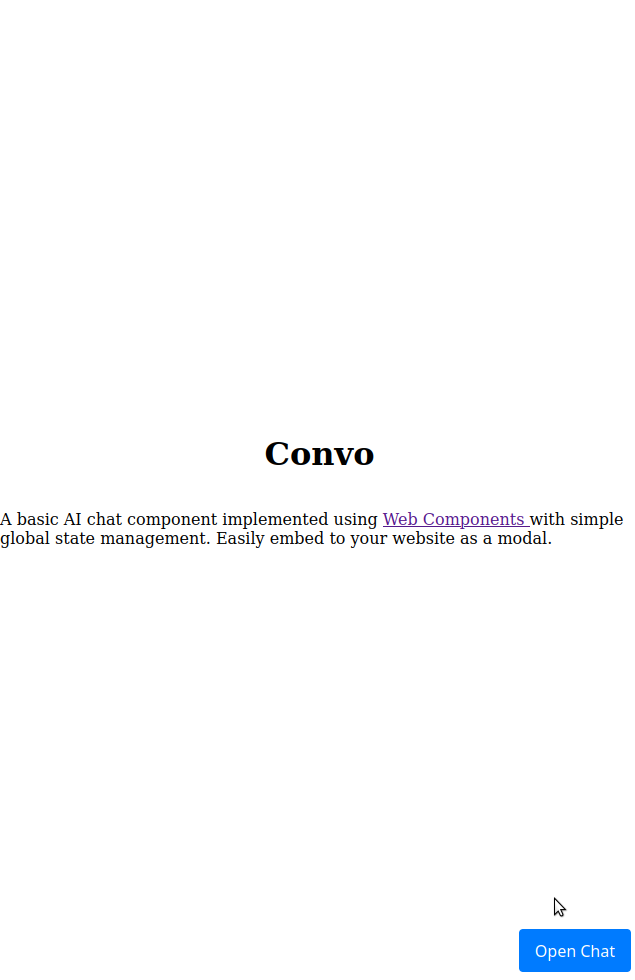
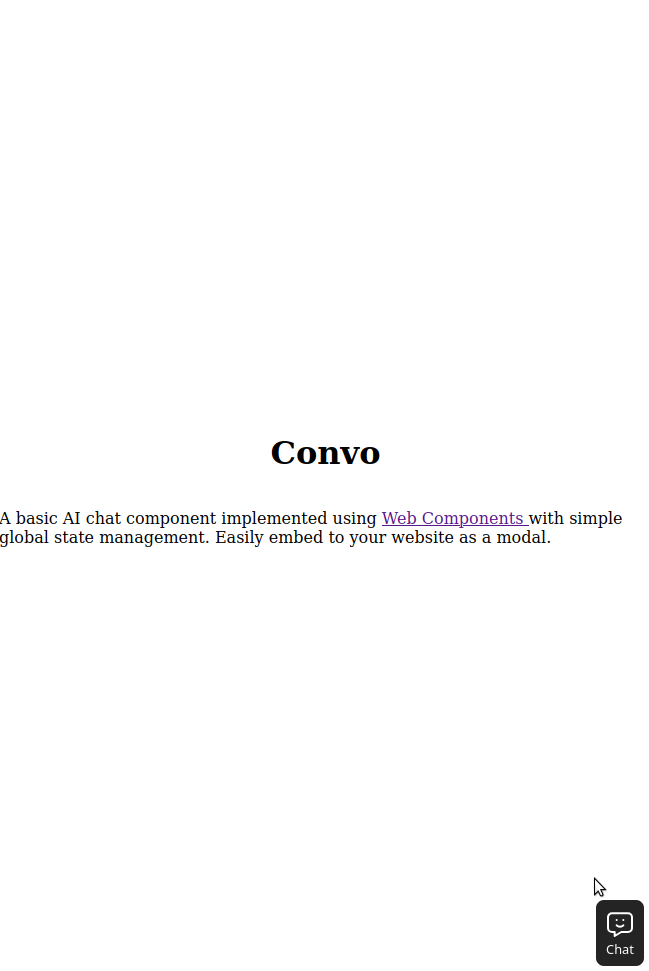
improve UI design

Changed region(s): [[0.0, 0.5252, 0.9874, 0.587], [0.8079, 0.896, 1.0, 1.0], [0.4189, 0.4325, 0.5984, 0.4943]]

diff --git a/js/chat-box.js b/js/chat-box.js
@@ -1,6 +1,62 @@
 import { store } from "./store.js";
 
+const sendIcon = `
+<svg
+  xmlns="http://www.w3.org/2000/svg"
+  width="24"
+  height="24"
+  viewBox="0 0 24 24"
+  fill="none"
+  stroke="#fff"
+  stroke-width="1.5"
+  stroke-linecap="round"
+  stroke-linejoin="round"
+>
+  <path d="M10 14l11 -11" />
+  <path d="M21 3l-6.5 18a.55 .55 0 0 1 -1 0l-3.5 -7l-7 -3.5a.55 .55 0 0 1 0 -1l18 -6.5" />
+</svg>
+`;
+
+const waitIcon = `
+<svg
+  xmlns="http://www.w3.org/2000/svg"
+  width="24"
+  height="24"
+  viewBox="0 0 24 24"
+  fill="none"
+  stroke="#fff"
+  stroke-width="1.5"
+  stroke-linecap="round"
+  stroke-linejoin="round"
+>
+  <path d="M12 6l0 -3" />
+  <path d="M16.25 7.75l2.15 -2.15" />
+  <path d="M18 12l3 0" />
+  <path d="M16.25 16.25l2.15 2.15" />
+  <path d="M12 18l0 3" />
+  <path d="M7.75 16.25l-2.15 2.15" />
+  <path d="M6 12l-3 0" />
+  <path d="M7.75 7.75l-2.15 -2.15" />
+</svg>
+`;
+
+const closeIcon = `
+<svg 
+  data-slot="icon" 
+  aria-hidden="true" 
+  fill="none" 
+  stroke-width="1.5" 
+  stroke="#242424" 
+  viewBox="0 0 24 24" 
+  xmlns="http://www.w3.org/2000/svg" 
+  width="30" 
+  height="30">
+    <path d="m9.75 9.75 4.5 4.5m0-4.5-4.5 4.5M21 12a9 9 0 1 1-18 0 9 9 0 0 1 18 0Z" stroke-linecap="round" stroke-linejoin="round"></path>
+</svg>
+`;
+
 const template = document.createElement("template");
+
 template.innerHTML = `
   <style>
     /* Scoped styles for the component */
@@ -8,15 +64,23 @@ template.innerHTML = `
       /* ----- DARK THEME PALETTE ----- */
       /* Define colors as CSS Custom Properties for easy theming */
       --background-color: #1a1a1a;        /* Very dark gray, almost black */
-      --component-background-color: #242424; /* Dark gray for the component itself */
+      --component-background-color:rgba(36, 36, 36, 0.65); /* Dark gray for the component itself */
       --text-color: #e1e1e1;            /* Light gray for primary text */
       --border-color: #444;             /* Mid-gray for borders */
-      --accent-color: #007bff;            /* Keep the blue for a nice pop of color */
+      --accent-color: #007bff;            
       --accent-color-hover: #0056b3;      /* A darker blue for hover */
       --user-message-background: var(--accent-color);
       --assistant-message-background: #3a3a3a; /* Darker gray for assistant messages */
       --button-disabled-background: #555;
       --button-disabled-text: #999;
+      --shadow-color: 0deg 0% 0%;
+      --shadow-elevation-high:
+    0.4px 0.5px 0.7px hsl(var(--shadow-color) / 0.13),
+    3.1px 3.8px 5.5px -0.5px hsl(var(--shadow-color) / 0.13),
+    6.6px 7.9px 11.6px -1px hsl(var(--shadow-color) / 0.13),
+    12.6px 15.3px 22.3px -1.5px hsl(var(--shadow-color) / 0.13),
+    23.3px 28.1px 41.1px -2px hsl(var(--shadow-color) / 0.13),
+    40.4px 48.8px 71.3px -2.5px hsl(var(--shadow-color) / 0.13);
 
       /* ----- COMPONENT STYLES ----- */
       display: flex;
@@ -42,24 +106,26 @@ template.innerHTML = `
       flex-direction: column;
       width: 300px;
       padding: 10px;
-      border-radius: 8px;
-      border: 1px solid var(--border-color);
+      border-radius: 12px;
       background-color: var(--component-background-color);
       color: var(--text-color);
+      box-shadow: var(--shadow-elevation-high);
     }
 
     #chat-header {
       display: flex;
-      font-size: 1.2rem;
       justify-content: space-between;
       align-items: center;
-      margin-bottom: 12px;
+      font-size: 1.2rem;
       width: 100%;
+      height: 100%;
     }
 
     #chat-header > p {
-      margin:0;
-      padding:0;
+      margin: 0;
+      padding: 2px 8px;
+      background-color: var(--background-color);
+      border-radius: 10px;
     }
 
     #chat-header > button {
@@ -69,13 +135,14 @@ template.innerHTML = `
       display: flex;
       justify-content: center;
       align-items: center;
-      background-color: var(--component-background-color);
-      border: solid #222 1px;
+      background-color:rgba(0, 0, 0, 0);
+      border: none;
       cursor: pointer;
-    }
-
-    #chat-header > button:hover {
-      opacity: 0.5
+      transition: background-color 0.2s;
+      }
+      
+      #chat-header > button:hover {
+        background-color: #fff;
     }
 
     .chat-messages {
@@ -85,8 +152,8 @@ template.innerHTML = `
       max-height: 50vh;
       width: 100%;
       border: 1px solid var(--border-color);
-      border-radius: 4px;
-      margin-bottom: 16px;
+      border-radius: 10px;
+      margin: 10px 0 10px 0;
       overflow-y: auto;
       background-color: var(--background-color);
       gap: 8px;
@@ -94,7 +161,7 @@ template.innerHTML = `
     
     .message {
         padding: 6px 10px;
-        border-radius: 12px;
+        border-radius: 8px;
         max-width: 80%;
         margin: 6px;
     }
@@ -113,6 +180,7 @@ template.innerHTML = `
 
     #chat-form {
       display: flex;
+      align-items: center;
       gap: 8px;
       width: 100%;
     }
@@ -120,12 +188,12 @@ template.innerHTML = `
     #message-input {
       flex-grow: 1;
       border: 1px solid var(--border-color);
-      border-radius: 4px;
       padding: 8px;
       font-size: 1em;
       background-color: var(--background-color);
       color: var(--text-color);
       width: 100%;
+      border-radius: 10px 0 0 10px;
     }
 
     #message-input::placeholder {
@@ -133,13 +201,16 @@ template.innerHTML = `
     }
 
     #send-button {
+      display: flex;
+      justify-content: center;
+      align-items: center;
       border: none;
       background-color: var(--accent-color);
       color: white;
-      border-radius: 4px;
-      padding: 8px 12px;
+      border-radius: 0 10px 10px 0;
       cursor: pointer;
       transition: background-color 0.2s;
+      padding: 8px;
     }
 
     #send-button:hover {
@@ -155,17 +226,17 @@ template.innerHTML = `
 
   <div id="convo-container">
     <div id="chat-header">
-      <p>Convo</p>
+      <p>convo</p>
       <button type="button" id="chat-header-btn">
-        <svg data-slot="icon" aria-hidden="true" fill="none" stroke-width="1.5" stroke="#fff" viewBox="0 0 24 24" xmlns="http://www.w3.org/2000/svg" width="30px" height="30px">
-          <path d="m9.75 9.75 4.5 4.5m0-4.5-4.5 4.5M21 12a9 9 0 1 1-18 0 9 9 0 0 1 18 0Z" stroke-linecap="round" stroke-linejoin="round"></path>
-        </svg>
+        ${closeIcon}
       </button>
     </div>
     <div class="chat-messages" id="chat-messages"></div>
     <form id="chat-form">
       <input type="text" id="message-input" placeholder="Type a message..." autocomplete="off" required>
-      <button type="submit" id="send-button">Send</button>
+      <button type="submit" id="send-button">
+        ${sendIcon}
+      </button>
     </form>
   </div>
 `;
@@ -235,9 +306,9 @@ class ChatBox extends HTMLElement {
     this.messageInput.disabled = isLoading;
     this.sendButton.disabled = isLoading;
     if (isLoading) {
-      this.sendButton.textContent = "...";
+      this.sendButton.innerHTML = waitIcon;
     } else {
-      this.sendButton.textContent = "Send";
+      this.sendButton.innerHTML = sendIcon;
     }
   }
 

diff --git a/js/chat-box-toggle.js b/js/chat-box-toggle.js
@@ -1,3 +1,22 @@
+const botIcon = `
+<svg
+  xmlns="http://www.w3.org/2000/svg"
+  width="32"
+  height="32"
+  viewBox="0 0 24 24"
+  fill="none"
+  stroke="#fff"
+  stroke-width="1.5"
+  stroke-linecap="round"
+  stroke-linejoin="round"
+>
+  <path d="M18 4a3 3 0 0 1 3 3v8a3 3 0 0 1 -3 3h-5l-5 3v-3h-2a3 3 0 0 1 -3 -3v-8a3 3 0 0 1 3 -3h12z" />
+  <path d="M9.5 9h.01" />
+  <path d="M14.5 9h.01" />
+  <path d="M9.5 13a3.5 3.5 0 0 0 5 0" />
+</svg>
+`;
+
 const template = document.createElement("template");
 template.innerHTML = `
   <style>
@@ -12,22 +31,27 @@ template.innerHTML = `
 
     button {
       border: none;
-      background-color: var(--accent-color, #007bff); /* Use theme color or a fallback */
+      background-color: var(--accent-color, #242424); /* Use theme color or a fallback */
       color: white;
-      border-radius: 4px;
-      padding: 10px 16px;
-      font-size: 1em;
+      border-radius: 8px;
+      padding: 8px;
+      font-size: 0.8rem;
       cursor: pointer;
       transition: background-color 0.2s;
+      display: flex;
+      justify-content: center;
+      flex-direction: column;
+      align-items: center;
     }
 
     button:hover {
-      background-color: var(--accent-color-hover, #0056b3);
+      background-color: var(--accent-color-hover,rgba(36, 36, 36, 0.8));
     }
   </style>
   
   <button>
-    <slot>Open Chat</slot>
+    <slot>${botIcon}</slot>
+    <span>Chat</span>
   </button>
 `;
 
